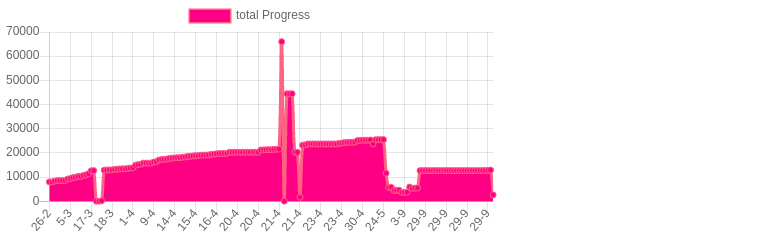
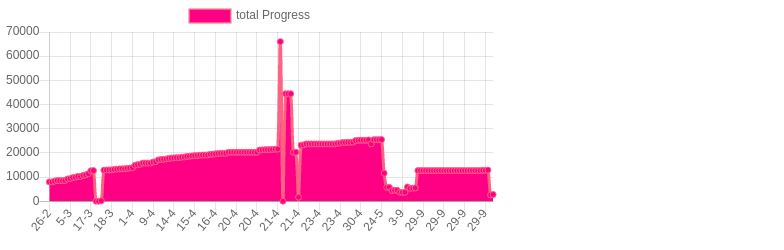
react and ruby code

Changed region(s): [[0.0612, 0.14, 0.6429, 0.924], [0.6122, 0.644, 0.6429, 0.784]]

diff --git a/total.html b/total.html
@@ -9,7 +9,7 @@
         <script src="https://cdn.jsdelivr.net/npm/chart.js@2.8.0"></script>
         <script>
           var ctx = document.getElementById("total").getContext("2d");
-          const goLabelsDates = ["2021-02-27T01:37:43.112Z","2021-02-27T01:38:01.628Z","2021-03-01T13:41:18.753Z","2021-03-01T14:53:41.991Z","2021-03-01T15:08:00.851Z","2021-03-01T15:09:10.635Z","2021-03-01T15:22:55.385Z","2021-03-03T15:31:41.151Z","2021-03-05T14:02:13.446Z","2021-03-10T14:50:13.297Z","2021-03-11T01:54:03.424Z","2021-03-11T15:32:47.647Z","2021-03-11T16:01:51.191Z","2021-03-12T00:36:04.646Z","2021-03-13T00:14:58.179Z","2021-03-16T05:30:04.043Z","2021-03-17T21:17:52.181Z","2021-03-18T03:42:56.998Z","2021-03-18T03:44:29.834Z","2021-03-18T03:45:35.160Z","2021-03-18T03:45:54.668Z","2021-03-18T03:48:46.007Z","2021-03-18T05:10:54.427Z","2021-03-18T05:44:13.724Z","2021-03-18T05:56:11.032Z","2021-03-18T22:11:28.339Z","2021-03-19T11:28:55.383Z","2021-03-22T13:51:43.977Z","2021-03-23T01:52:09.452Z","2021-03-23T15:45:53.765Z","2021-03-24T01:46:02.104Z","2021-03-30T10:56:50.711Z","2021-04-01T15:03:17.764Z","2021-04-01T23:15:02.096Z","2021-04-07T19:21:55.040Z","2021-04-08T15:21:14.479Z","2021-04-09T23:17:58.037Z","2021-04-09T23:32:26.341Z","2021-04-09T23:34:42.049Z","2021-04-09T23:36:18.092Z","2021-04-10T01:45:40.218Z","2021-04-12T15:41:26.676Z","2021-04-14T02:00:41.039Z","2021-04-14T20:02:44.141Z","2021-04-14T21:14:15.821Z","2021-04-14T22:06:37.573Z","2021-04-14T22:42:14.693Z","2021-04-14T23:10:13.243Z","2021-04-14T23:22:54.824Z","2021-04-14T23:49:37.009Z","2021-04-15T02:28:51.974Z","2021-04-15T14:33:50.618Z","2021-04-15T15:09:11.104Z","2021-04-15T20:35:30.580Z","2021-04-16T00:04:33.158Z","2021-04-16T01:36:06.294Z","2021-04-16T01:53:35.992Z","2021-04-16T02:00:15.474Z","2021-04-16T16:08:40.977Z","2021-04-16T16:27:06.953Z","2021-04-16T16:59:30.526Z","2021-04-16T17:00:53.737Z","2021-04-16T23:14:36.283Z","2021-04-17T00:39:16.890Z","2021-04-17T01:11:09.986Z","2021-04-17T01:32:30.011Z","2021-04-17T01:44:22.446Z","2021-04-17T01:44:33.941Z","2021-04-17T02:35:55.774Z","2021-04-19T15:41:31.091Z","2021-04-20T15:32:32.239Z","2021-04-20T15:33:16.014Z","2021-04-20T15:36:11.438Z","2021-04-20T15:38:44.606Z","2021-04-20T15:41:50.350Z","2021-04-20T15:44:34.448Z","2021-04-20T15:46:49.295Z","2021-04-20T15:47:24.048Z","2021-04-20T15:56:22.046Z","2021-04-20T16:00:02.540Z","2021-04-20T16:01:15.511Z","2021-04-20T23:19:23.938Z","2021-04-21T00:40:54.443Z","2021-04-21T00:47:22.662Z","2021-04-21T02:01:09.006Z","2021-04-21T02:19:22.734Z","2021-04-21T15:53:36.038Z","2021-04-21T16:21:45.704Z","2021-04-21T16:26:32.790Z","2021-04-21T16:40:24.916Z","2021-04-21T16:43:40.235Z","2021-04-21T16:43:59.719Z","2021-04-21T16:44:40.304Z","2021-04-21T16:46:13.191Z","2021-04-21T16:48:41.898Z","2021-04-21T16:49:08.753Z","2021-04-21T16:50:32.397Z","2021-04-21T16:51:58.778Z","2021-04-23T00:49:32.826Z","2021-04-23T15:03:06.320Z","2021-04-23T15:04:13.039Z","2021-04-23T15:05:25.923Z","2021-04-23T15:11:04.285Z","2021-04-23T15:11:38.826Z","2021-04-23T15:12:05.618Z","2021-04-23T15:12:32.508Z","2021-04-23T15:13:17.058Z","2021-04-23T17:08:27.046Z","2021-04-23T18:02:30.357Z","2021-04-23T22:58:36.946Z","2021-04-23T23:00:26.027Z","2021-04-23T23:52:58.438Z","2021-04-24T01:12:51.525Z","2021-04-24T02:01:46.612Z","2021-04-26T12:46:47.336Z","2021-04-26T13:13:50.946Z","2021-04-26T13:16:04.473Z","2021-04-27T00:11:42.582Z","2021-04-30T03:26:37.101Z","2021-04-30T04:33:42.472Z","2021-04-30T05:15:42.646Z","2021-04-30T14:31:10.927Z","2021-05-04T01:51:49.907Z","2021-05-21T00:30:21.777Z","2021-05-24T15:07:09.579Z","2021-05-24T15:08:05.658Z","2021-05-24T15:22:20.903Z","2021-05-24T15:33:34.626Z","2021-05-24T15:46:16.101Z","2021-05-24T15:48:12.171Z","2021-05-24T15:53:54.498Z","2021-05-24T15:56:18.488Z","2021-05-28T22:50:32.914Z","2021-06-02T17:58:30.866Z","2021-07-01T05:04:25.826Z","2021-07-01T05:05:33.079Z","2021-09-03T16:56:54.023Z","2021-09-23T00:10:19.737Z","2021-09-23T00:54:30.987Z","2021-09-25T00:13:33.106Z","2021-09-25T00:56:09.874Z","2021-09-29T20:37:10.460Z","2021-09-29T20:39:45.107Z","2021-09-29T20:45:08.406Z","2021-09-29T20:45:42.995Z","2021-09-29T20:51:54.166Z","2021-09-29T21:04:45.487Z","2021-09-29T21:22:49.580Z","2021-09-29T21:23:34.860Z","2021-09-29T21:24:52.804Z","2021-09-29T21:25:12.938Z","2021-09-29T21:31:41.466Z","2021-09-29T21:32:02.856Z","2021-09-29T21:32:15.096Z","2021-09-29T21:37:01.273Z","2021-09-29T21:39:46.109Z","2021-09-29T21:40:23.862Z","2021-09-29T21:41:38.242Z","2021-09-29T21:45:36.053Z","2021-09-29T21:48:31.229Z","2021-09-29T21:49:46.414Z","2021-09-29T21:50:16.628Z","2021-09-29T21:52:23.035Z","2021-09-29T21:58:46.153Z","2021-09-29T21:59:06.075Z","2021-09-29T22:09:34.545Z","2021-09-29T22:24:59.487Z","2021-09-29T22:39:38.616Z","2021-09-29T23:07:40.178Z","2021-10-01T13:21:48.217Z","2021-10-01T14:11:47.682Z",];
+          const goLabelsDates = ["2021-02-27T01:37:43.112Z","2021-02-27T01:38:01.628Z","2021-03-01T13:41:18.753Z","2021-03-01T14:53:41.991Z","2021-03-01T15:08:00.851Z","2021-03-01T15:09:10.635Z","2021-03-01T15:22:55.385Z","2021-03-03T15:31:41.151Z","2021-03-05T14:02:13.446Z","2021-03-10T14:50:13.297Z","2021-03-11T01:54:03.424Z","2021-03-11T15:32:47.647Z","2021-03-11T16:01:51.191Z","2021-03-12T00:36:04.646Z","2021-03-13T00:14:58.179Z","2021-03-16T05:30:04.043Z","2021-03-17T21:17:52.181Z","2021-03-18T03:42:56.998Z","2021-03-18T03:44:29.834Z","2021-03-18T03:45:35.160Z","2021-03-18T03:45:54.668Z","2021-03-18T03:48:46.007Z","2021-03-18T05:10:54.427Z","2021-03-18T05:44:13.724Z","2021-03-18T05:56:11.032Z","2021-03-18T22:11:28.339Z","2021-03-19T11:28:55.383Z","2021-03-22T13:51:43.977Z","2021-03-23T01:52:09.452Z","2021-03-23T15:45:53.765Z","2021-03-24T01:46:02.104Z","2021-03-30T10:56:50.711Z","2021-04-01T15:03:17.764Z","2021-04-01T23:15:02.096Z","2021-04-07T19:21:55.040Z","2021-04-08T15:21:14.479Z","2021-04-09T23:17:58.037Z","2021-04-09T23:32:26.341Z","2021-04-09T23:34:42.049Z","2021-04-09T23:36:18.092Z","2021-04-10T01:45:40.218Z","2021-04-12T15:41:26.676Z","2021-04-14T02:00:41.039Z","2021-04-14T20:02:44.141Z","2021-04-14T21:14:15.821Z","2021-04-14T22:06:37.573Z","2021-04-14T22:42:14.693Z","2021-04-14T23:10:13.243Z","2021-04-14T23:22:54.824Z","2021-04-14T23:49:37.009Z","2021-04-15T02:28:51.974Z","2021-04-15T14:33:50.618Z","2021-04-15T15:09:11.104Z","2021-04-15T20:35:30.580Z","2021-04-16T00:04:33.158Z","2021-04-16T01:36:06.294Z","2021-04-16T01:53:35.992Z","2021-04-16T02:00:15.474Z","2021-04-16T16:08:40.977Z","2021-04-16T16:27:06.953Z","2021-04-16T16:59:30.526Z","2021-04-16T17:00:53.737Z","2021-04-16T23:14:36.283Z","2021-04-17T00:39:16.890Z","2021-04-17T01:11:09.986Z","2021-04-17T01:32:30.011Z","2021-04-17T01:44:22.446Z","2021-04-17T01:44:33.941Z","2021-04-17T02:35:55.774Z","2021-04-19T15:41:31.091Z","2021-04-20T15:32:32.239Z","2021-04-20T15:33:16.014Z","2021-04-20T15:36:11.438Z","2021-04-20T15:38:44.606Z","2021-04-20T15:41:50.350Z","2021-04-20T15:44:34.448Z","2021-04-20T15:46:49.295Z","2021-04-20T15:47:24.048Z","2021-04-20T15:56:22.046Z","2021-04-20T16:00:02.540Z","2021-04-20T16:01:15.511Z","2021-04-20T23:19:23.938Z","2021-04-21T00:40:54.443Z","2021-04-21T00:47:22.662Z","2021-04-21T02:01:09.006Z","2021-04-21T02:19:22.734Z","2021-04-21T15:53:36.038Z","2021-04-21T16:21:45.704Z","2021-04-21T16:26:32.790Z","2021-04-21T16:40:24.916Z","2021-04-21T16:43:40.235Z","2021-04-21T16:43:59.719Z","2021-04-21T16:44:40.304Z","2021-04-21T16:46:13.191Z","2021-04-21T16:48:41.898Z","2021-04-21T16:49:08.753Z","2021-04-21T16:50:32.397Z","2021-04-21T16:51:58.778Z","2021-04-23T00:49:32.826Z","2021-04-23T15:03:06.320Z","2021-04-23T15:04:13.039Z","2021-04-23T15:05:25.923Z","2021-04-23T15:11:04.285Z","2021-04-23T15:11:38.826Z","2021-04-23T15:12:05.618Z","2021-04-23T15:12:32.508Z","2021-04-23T15:13:17.058Z","2021-04-23T17:08:27.046Z","2021-04-23T18:02:30.357Z","2021-04-23T22:58:36.946Z","2021-04-23T23:00:26.027Z","2021-04-23T23:52:58.438Z","2021-04-24T01:12:51.525Z","2021-04-24T02:01:46.612Z","2021-04-26T12:46:47.336Z","2021-04-26T13:13:50.946Z","2021-04-26T13:16:04.473Z","2021-04-27T00:11:42.582Z","2021-04-30T03:26:37.101Z","2021-04-30T04:33:42.472Z","2021-04-30T05:15:42.646Z","2021-04-30T14:31:10.927Z","2021-05-04T01:51:49.907Z","2021-05-21T00:30:21.777Z","2021-05-24T15:07:09.579Z","2021-05-24T15:08:05.658Z","2021-05-24T15:22:20.903Z","2021-05-24T15:33:34.626Z","2021-05-24T15:46:16.101Z","2021-05-24T15:48:12.171Z","2021-05-24T15:53:54.498Z","2021-05-24T15:56:18.488Z","2021-05-28T22:50:32.914Z","2021-06-02T17:58:30.866Z","2021-07-01T05:04:25.826Z","2021-07-01T05:05:33.079Z","2021-09-03T16:56:54.023Z","2021-09-23T00:10:19.737Z","2021-09-23T00:54:30.987Z","2021-09-25T00:13:33.106Z","2021-09-25T00:56:09.874Z","2021-09-29T20:37:10.460Z","2021-09-29T20:39:45.107Z","2021-09-29T20:45:08.406Z","2021-09-29T20:45:42.995Z","2021-09-29T20:51:54.166Z","2021-09-29T21:04:45.487Z","2021-09-29T21:22:49.580Z","2021-09-29T21:23:34.860Z","2021-09-29T21:24:52.804Z","2021-09-29T21:25:12.938Z","2021-09-29T21:31:41.466Z","2021-09-29T21:32:02.856Z","2021-09-29T21:32:15.096Z","2021-09-29T21:37:01.273Z","2021-09-29T21:39:46.109Z","2021-09-29T21:40:23.862Z","2021-09-29T21:41:38.242Z","2021-09-29T21:45:36.053Z","2021-09-29T21:48:31.229Z","2021-09-29T21:49:46.414Z","2021-09-29T21:50:16.628Z","2021-09-29T21:52:23.035Z","2021-09-29T21:58:46.153Z","2021-09-29T21:59:06.075Z","2021-09-29T22:09:34.545Z","2021-09-29T22:24:59.487Z","2021-09-29T22:39:38.616Z","2021-09-29T23:07:40.178Z","2021-10-01T13:21:48.217Z","2021-10-01T14:11:47.682Z","2021-10-05T00:24:42.303Z",];
           var chart = new Chart(ctx, {
             type: 'line',
             data: {
@@ -18,7 +18,7 @@
                 label: 'total Progress',
                 backgroundColor: 'rgb(255, 0, 132)',
                 borderColor: 'rgb(255, 99, 132)',
-                data: [7975,7975,8307,8526,8526,8527,8573,9171,9358,9751,9908,10232,10231,10643,10911,11353,12576,12666,0,0,169,12835,12906,12953,12953,13141,13254,13354,13406,13417,13568,13708,13845,14886,15140,15267,15766,15777,15777,15777,16211,16345,17062,17247,17324,17464,17697,17849,17916,18002,18002,18202,18292,18515,18590,18744,18837,18876,19030,19086,19114,19143,19378,19465,19607,19714,19782,19782,19791,20220,20257,20257,20257,20257,20257,20257,20257,20257,20257,20257,20257,21179,21238,21279,21319,21319,21430,21506,21543,65995,0,44452,44452,44452,20233,20233,1629,23172,23326,23693,23693,23693,23693,23693,23693,23693,23693,23693,23693,23693,23693,23905,24023,24262,24275,24376,24376,24452,25078,25182,25238,25232,25233,25334,23696,25427,25453,25466,25491,11565,5707,5707,4421,4535,4535,3678,3678,3678,5861,5318,5422,5473,12667,12667,12667,12667,12667,12667,12667,12667,12667,12667,12667,12667,12667,12667,12667,12667,12667,12667,12658,12658,12657,12657,12657,12657,12683,12736,12779,12888,2619,]
+                data: [7975,7975,8307,8526,8526,8527,8573,9171,9358,9751,9908,10232,10231,10643,10911,11353,12576,12666,0,0,169,12835,12906,12953,12953,13141,13254,13354,13406,13417,13568,13708,13845,14886,15140,15267,15766,15777,15777,15777,16211,16345,17062,17247,17324,17464,17697,17849,17916,18002,18002,18202,18292,18515,18590,18744,18837,18876,19030,19086,19114,19143,19378,19465,19607,19714,19782,19782,19791,20220,20257,20257,20257,20257,20257,20257,20257,20257,20257,20257,20257,21179,21238,21279,21319,21319,21430,21506,21543,65995,0,44452,44452,44452,20233,20233,1629,23172,23326,23693,23693,23693,23693,23693,23693,23693,23693,23693,23693,23693,23693,23905,24023,24262,24275,24376,24376,24452,25078,25182,25238,25232,25233,25334,23696,25427,25453,25466,25491,11565,5707,5707,4421,4535,4535,3678,3678,3678,5861,5318,5422,5473,12667,12667,12667,12667,12667,12667,12667,12667,12667,12667,12667,12667,12667,12667,12667,12667,12667,12667,12658,12658,12657,12657,12657,12657,12683,12736,12779,12888,2619,2775,]
               }]
             },
           });

diff --git a/ruby.html b/ruby.html
@@ -4,12 +4,12 @@
       <head></head>
       <body>
         <div style="width: 500px;">
-          <canvas id="ruby" width="500" height="300"></canvas>
+          <canvas id="ruby" width="300" height="150"></canvas>
         </div>
         <script src="https://cdn.jsdelivr.net/npm/chart.js@2.8.0"></script>
         <script>
           var ctx = document.getElementById("ruby").getContext("2d");
-          const goLabelsDates = ["2021-02-27T01:37:43.111Z","2021-02-27T01:38:01.627Z","2021-03-03T15:31:41.151Z","2021-03-12T00:36:04.646Z","2021-03-13T00:14:58.178Z","2021-03-16T05:30:04.043Z","2021-03-18T05:44:13.724Z","2021-03-18T05:56:11.032Z","2021-03-18T22:11:28.339Z","2021-03-19T11:28:55.382Z","2021-03-22T13:51:43.976Z","2021-03-23T01:52:09.451Z","2021-03-23T15:45:53.764Z","2021-03-24T01:46:02.103Z","2021-03-30T10:56:50.710Z","2021-04-01T15:03:17.763Z","2021-04-01T23:15:02.095Z","2021-04-07T19:21:55.039Z","2021-04-08T15:21:14.478Z","2021-04-09T23:17:58.036Z","2021-04-09T23:32:26.340Z","2021-04-09T23:34:42.048Z","2021-04-09T23:36:18.092Z","2021-04-10T01:45:40.217Z","2021-04-12T15:41:26.675Z","2021-04-14T02:00:41.039Z","2021-04-14T20:02:44.140Z","2021-04-14T21:14:15.820Z","2021-04-14T22:06:37.573Z","2021-04-14T22:42:14.693Z","2021-04-14T23:10:13.243Z","2021-04-14T23:22:54.824Z","2021-04-14T23:49:37.009Z","2021-04-15T02:28:51.974Z","2021-04-15T14:33:50.618Z","2021-04-15T15:09:11.103Z","2021-04-15T20:35:30.579Z","2021-04-16T00:04:33.157Z","2021-04-16T01:36:06.293Z","2021-04-16T01:53:35.991Z","2021-04-16T02:00:15.473Z","2021-04-16T16:08:40.976Z","2021-04-16T16:27:06.952Z","2021-04-16T16:59:30.525Z","2021-04-16T17:00:53.733Z","2021-04-16T23:14:36.282Z","2021-04-17T00:39:16.888Z","2021-04-17T01:11:09.985Z","2021-04-17T01:32:30.008Z","2021-04-17T01:44:22.445Z","2021-04-17T01:44:33.940Z","2021-04-17T02:35:55.773Z","2021-04-19T15:41:31.090Z","2021-04-20T15:32:32.238Z","2021-04-20T15:33:16.013Z","2021-04-20T15:36:11.438Z","2021-04-20T15:38:44.605Z","2021-04-20T15:41:50.349Z","2021-04-20T15:44:34.447Z","2021-04-20T15:46:49.294Z","2021-04-20T15:47:24.047Z","2021-04-20T15:56:22.045Z","2021-04-20T16:00:02.539Z","2021-04-20T16:01:15.511Z","2021-04-20T23:19:23.937Z","2021-04-21T00:40:54.442Z","2021-04-21T00:47:22.661Z","2021-04-21T02:01:09.005Z","2021-04-21T02:19:22.734Z","2021-04-21T15:53:36.037Z","2021-04-21T16:21:45.703Z","2021-04-21T16:26:32.789Z","2021-04-21T16:40:24.916Z","2021-04-21T16:51:58.777Z","2021-04-23T00:49:32.825Z","2021-04-23T15:03:06.327Z","2021-04-23T15:04:13.044Z","2021-04-23T15:05:25.923Z","2021-04-23T15:13:17.062Z","2021-04-23T17:08:27.045Z","2021-04-23T18:02:30.355Z","2021-04-23T22:58:36.945Z","2021-04-23T23:00:26.027Z","2021-04-23T23:52:58.438Z","2021-04-24T01:12:51.524Z","2021-04-24T02:01:46.611Z","2021-04-26T12:46:47.335Z","2021-04-26T13:13:50.945Z","2021-04-26T13:16:04.472Z","2021-04-27T00:11:42.580Z","2021-04-30T03:26:37.099Z","2021-04-30T04:33:42.472Z","2021-04-30T05:15:42.646Z","2021-04-30T14:31:10.926Z","2021-05-04T01:51:49.906Z","2021-05-21T00:30:21.773Z","2021-05-24T15:07:09.574Z","2021-05-24T15:08:05.657Z","2021-05-24T15:22:20.902Z","2021-05-24T15:33:34.625Z","2021-05-24T15:46:16.101Z","2021-05-24T15:48:12.170Z",];
+          const goLabelsDates = ["2021-02-27T01:37:43.111Z","2021-02-27T01:38:01.627Z","2021-03-03T15:31:41.151Z","2021-03-12T00:36:04.646Z","2021-03-13T00:14:58.178Z","2021-03-16T05:30:04.043Z","2021-03-18T05:44:13.724Z","2021-03-18T05:56:11.032Z","2021-03-18T22:11:28.339Z","2021-03-19T11:28:55.382Z","2021-03-22T13:51:43.976Z","2021-03-23T01:52:09.451Z","2021-03-23T15:45:53.764Z","2021-03-24T01:46:02.103Z","2021-03-30T10:56:50.710Z","2021-04-01T15:03:17.763Z","2021-04-01T23:15:02.095Z","2021-04-07T19:21:55.039Z","2021-04-08T15:21:14.478Z","2021-04-09T23:17:58.036Z","2021-04-09T23:32:26.340Z","2021-04-09T23:34:42.048Z","2021-04-09T23:36:18.092Z","2021-04-10T01:45:40.217Z","2021-04-12T15:41:26.675Z","2021-04-14T02:00:41.039Z","2021-04-14T20:02:44.140Z","2021-04-14T21:14:15.820Z","2021-04-14T22:06:37.573Z","2021-04-14T22:42:14.693Z","2021-04-14T23:10:13.243Z","2021-04-14T23:22:54.824Z","2021-04-14T23:49:37.009Z","2021-04-15T02:28:51.974Z","2021-04-15T14:33:50.618Z","2021-04-15T15:09:11.103Z","2021-04-15T20:35:30.579Z","2021-04-16T00:04:33.157Z","2021-04-16T01:36:06.293Z","2021-04-16T01:53:35.991Z","2021-04-16T02:00:15.473Z","2021-04-16T16:08:40.976Z","2021-04-16T16:27:06.952Z","2021-04-16T16:59:30.525Z","2021-04-16T17:00:53.733Z","2021-04-16T23:14:36.282Z","2021-04-17T00:39:16.888Z","2021-04-17T01:11:09.985Z","2021-04-17T01:32:30.008Z","2021-04-17T01:44:22.445Z","2021-04-17T01:44:33.940Z","2021-04-17T02:35:55.773Z","2021-04-19T15:41:31.090Z","2021-04-20T15:32:32.238Z","2021-04-20T15:33:16.013Z","2021-04-20T15:36:11.438Z","2021-04-20T15:38:44.605Z","2021-04-20T15:41:50.349Z","2021-04-20T15:44:34.447Z","2021-04-20T15:46:49.294Z","2021-04-20T15:47:24.047Z","2021-04-20T15:56:22.045Z","2021-04-20T16:00:02.539Z","2021-04-20T16:01:15.511Z","2021-04-20T23:19:23.937Z","2021-04-21T00:40:54.442Z","2021-04-21T00:47:22.661Z","2021-04-21T02:01:09.005Z","2021-04-21T02:19:22.734Z","2021-04-21T15:53:36.037Z","2021-04-21T16:21:45.703Z","2021-04-21T16:26:32.789Z","2021-04-21T16:40:24.916Z","2021-04-21T16:51:58.777Z","2021-04-23T00:49:32.825Z","2021-04-23T15:03:06.327Z","2021-04-23T15:04:13.044Z","2021-04-23T15:05:25.923Z","2021-04-23T15:13:17.062Z","2021-04-23T17:08:27.045Z","2021-04-23T18:02:30.355Z","2021-04-23T22:58:36.945Z","2021-04-23T23:00:26.027Z","2021-04-23T23:52:58.438Z","2021-04-24T01:12:51.524Z","2021-04-24T02:01:46.611Z","2021-04-26T12:46:47.335Z","2021-04-26T13:13:50.945Z","2021-04-26T13:16:04.472Z","2021-04-27T00:11:42.580Z","2021-04-30T03:26:37.099Z","2021-04-30T04:33:42.472Z","2021-04-30T05:15:42.646Z","2021-04-30T14:31:10.926Z","2021-05-04T01:51:49.906Z","2021-05-21T00:30:21.773Z","2021-05-24T15:07:09.574Z","2021-05-24T15:08:05.657Z","2021-05-24T15:22:20.902Z","2021-05-24T15:33:34.625Z","2021-05-24T15:46:16.101Z","2021-05-24T15:48:12.170Z","2021-10-05T00:24:42.299Z",];
           var chart = new Chart(ctx, {
             type: 'line',
             data: {
@@ -18,7 +18,7 @@
                 label: 'ruby Progress',
                 backgroundColor: 'rgb(255, 0, 132)',
                 borderColor: 'rgb(255, 99, 132)',
-                data: [810,810,1056,1469,1737,1875,1908,1908,1908,1908,1938,1960,1960,1960,2005,2083,2083,2083,2083,2157,2168,2168,2168,2168,2168,2168,2168,2168,2168,2168,2168,2168,2168,2168,2168,2168,2168,2168,2168,2168,2168,2168,2168,2168,2168,2168,2168,2168,2168,2168,2168,2168,2168,2168,2168,2168,2168,2168,2168,2168,2168,2168,2168,2168,2168,2168,2168,2168,2168,2168,2168,2168,2168,2168,2168,2168,2168,2168,2168,2168,2168,2168,2168,2168,2168,2168,2168,2168,2168,2168,2168,2168,2168,2168,2168,2168,2168,2168,2168,2168,2168,2168,]
+                data: [810,810,1056,1469,1737,1875,1908,1908,1908,1908,1938,1960,1960,1960,2005,2083,2083,2083,2083,2157,2168,2168,2168,2168,2168,2168,2168,2168,2168,2168,2168,2168,2168,2168,2168,2168,2168,2168,2168,2168,2168,2168,2168,2168,2168,2168,2168,2168,2168,2168,2168,2168,2168,2168,2168,2168,2168,2168,2168,2168,2168,2168,2168,2168,2168,2168,2168,2168,2168,2168,2168,2168,2168,2168,2168,2168,2168,2168,2168,2168,2168,2168,2168,2168,2168,2168,2168,2168,2168,2168,2168,2168,2168,2168,2168,2168,2168,2168,2168,2168,2168,2168,2578,]
               }]
             },
           });

diff --git a/react.html b/react.html
@@ -9,7 +9,7 @@
         <script src="https://cdn.jsdelivr.net/npm/chart.js@2.8.0"></script>
         <script>
           var ctx = document.getElementById("react").getContext("2d");
-          const goLabelsDates = ["2021-05-24T15:22:20.900Z","2021-05-24T15:33:34.624Z","2021-05-24T15:46:16.099Z","2021-05-24T15:48:12.170Z","2021-05-24T15:53:54.498Z","2021-05-24T15:56:18.484Z","2021-05-28T22:50:32.912Z","2021-06-02T17:58:30.865Z","2021-07-01T05:04:25.823Z","2021-07-01T05:05:33.078Z","2021-09-03T16:56:54.022Z","2021-09-23T00:10:19.736Z","2021-09-23T00:54:30.986Z","2021-09-25T00:13:33.104Z","2021-09-25T00:56:09.872Z","2021-09-29T20:37:10.455Z","2021-09-29T20:39:45.106Z","2021-09-29T20:45:08.405Z","2021-09-29T20:45:42.992Z","2021-09-29T20:51:54.164Z","2021-09-29T21:04:45.485Z","2021-09-29T21:22:49.578Z","2021-09-29T21:23:34.858Z","2021-09-29T21:24:52.803Z","2021-09-29T21:25:12.936Z","2021-09-29T21:31:41.463Z","2021-09-29T21:32:02.853Z","2021-09-29T21:32:15.094Z","2021-09-29T21:36:24.777Z","2021-09-29T21:37:01.271Z","2021-09-29T21:39:46.106Z","2021-09-29T21:40:23.860Z","2021-09-29T21:41:38.229Z","2021-09-29T21:45:36.048Z","2021-09-29T21:48:31.220Z","2021-09-29T21:49:46.410Z","2021-09-29T21:50:16.623Z","2021-09-29T21:52:23.031Z","2021-09-29T21:58:46.149Z","2021-09-29T21:59:06.072Z","2021-09-29T22:09:34.541Z","2021-09-29T22:24:59.483Z","2021-09-29T22:39:38.613Z","2021-09-29T23:07:40.174Z","2021-10-01T13:21:48.213Z","2021-10-01T14:11:47.678Z",];
+          const goLabelsDates = ["2021-05-24T15:22:20.900Z","2021-05-24T15:33:34.624Z","2021-05-24T15:46:16.099Z","2021-05-24T15:48:12.170Z","2021-05-24T15:53:54.498Z","2021-05-24T15:56:18.484Z","2021-05-28T22:50:32.912Z","2021-06-02T17:58:30.865Z","2021-07-01T05:04:25.823Z","2021-07-01T05:05:33.078Z","2021-09-03T16:56:54.022Z","2021-09-23T00:10:19.736Z","2021-09-23T00:54:30.986Z","2021-09-25T00:13:33.104Z","2021-09-25T00:56:09.872Z","2021-09-29T20:37:10.455Z","2021-09-29T20:39:45.106Z","2021-09-29T20:45:08.405Z","2021-09-29T20:45:42.992Z","2021-09-29T20:51:54.164Z","2021-09-29T21:04:45.485Z","2021-09-29T21:22:49.578Z","2021-09-29T21:23:34.858Z","2021-09-29T21:24:52.803Z","2021-09-29T21:25:12.936Z","2021-09-29T21:31:41.463Z","2021-09-29T21:32:02.853Z","2021-09-29T21:32:15.094Z","2021-09-29T21:36:24.777Z","2021-09-29T21:37:01.271Z","2021-09-29T21:39:46.106Z","2021-09-29T21:40:23.860Z","2021-09-29T21:41:38.229Z","2021-09-29T21:45:36.048Z","2021-09-29T21:48:31.220Z","2021-09-29T21:49:46.410Z","2021-09-29T21:50:16.623Z","2021-09-29T21:52:23.031Z","2021-09-29T21:58:46.149Z","2021-09-29T21:59:06.072Z","2021-09-29T22:09:34.541Z","2021-09-29T22:24:59.483Z","2021-09-29T22:39:38.613Z","2021-09-29T23:07:40.174Z","2021-10-01T13:21:48.213Z","2021-10-01T14:11:47.678Z","2021-10-05T00:24:42.298Z",];
           var chart = new Chart(ctx, {
             type: 'line',
             data: {
@@ -18,7 +18,7 @@
                 label: 'react Progress',
                 backgroundColor: 'rgb(255, 0, 132)',
                 borderColor: 'rgb(255, 99, 132)',
-                data: [26,26,26,26,26,26,26,26,26,26,26,26,26,26,26,26,26,26,26,26,26,26,26,26,26,26,26,26,26,26,26,26,26,26,26,26,26,26,26,26,26,26,26,26,26,197,]
+                data: [26,26,26,26,26,26,26,26,26,26,26,26,26,26,26,26,26,26,26,26,26,26,26,26,26,26,26,26,26,26,26,26,26,26,26,26,26,26,26,26,26,26,26,26,26,197,197,]
               }]
             },
           });

diff --git a/config.js b/config.js
@@ -8,15 +8,15 @@ const configLn = [
     src: ['../../react-native/reactnDoctor1/components', '../../react-native/reactnDoctor1/screens', '../../react-native/reactnDoctor1/navigation', '../../react-native/reactnDoctor1/hooks'],
     goal: 2000
   }, */
-/*   {
-    ln: 'denti-code',
-    title: "JavaScript Denti",
-    subjects: [
-      "react,", "hooks"
-    ],
-    src: ['../../node/denti-code/src', '../../node/denti-code-server'],
-    goal: 2000
-  }, */
+  /*   {
+      ln: 'denti-code',
+      title: "JavaScript Denti",
+      subjects: [
+        "react,", "hooks"
+      ],
+      src: ['../../node/denti-code/src', '../../node/denti-code-server'],
+      goal: 2000
+    }, */
   /* {
     ln: 'shopping-cart',
     title: "React Shopping Cart",
@@ -42,20 +42,20 @@ const configLn = [
     ],
     goal: 1000
   },
- /*  {
-    ln: 'ts',
-    title: "TS",
-    subjects: [
-      "angular, microORM, typeORM, node js."
-    ],
-    goal: 500
-  }, */
-/*   {
-    ln: 'java',
-    title: "java",
-    subjects: ["reflexion", "strings", "generics", "documentation"],
-    goal: 2000
-  }, */
+  /*  {
+     ln: 'ts',
+     title: "TS",
+     subjects: [
+       "angular, microORM, typeORM, node js."
+     ],
+     goal: 500
+   }, */
+  /*   {
+      ln: 'java',
+      title: "java",
+      subjects: ["reflexion", "strings", "generics", "documentation"],
+      goal: 2000
+    }, */
   /* {
     ln: 'scala',
     title: "scala",
@@ -74,36 +74,36 @@ const configLn = [
     subjects: [],
     goal: 500
   }, */
-   /* {
-    ln: 'go',
-    title: "go",
-    subjects: ["structs", "loops"],
-    goal: 3000
-  }, */
-  {
+  /* {
+   ln: 'go',
+   title: "go",
+   subjects: ["structs", "loops"],
+   goal: 3000
+ }, */
+  /* {
     ln: 'python',
     title: "python",
     subjects: ["collections", ""],
     goal: 2000
-  },
- /*  {
+  }, */
+  {
     ln: 'ruby',
     title: "ruby",
     subjects: ["migrations", "ruby on rails", "presenters", "models"],
     goal: 2000
-  }, */
+  },
   /* {
     ln: 'sql',
     title: "sql",
     subjects: [],
     goal: 500
   }, */
- /*  {
-    ln: 'html',
-    title: "html",
-    subjects: [],
-    goal: 500
-  }, */
+  /*  {
+     ln: 'html',
+     title: "html",
+     subjects: [],
+     goal: 500
+   }, */
   /* {
     ln: 'css',
     title: "css",

diff --git a/Readme.md b/Readme.md
@@ -1,12 +1,12 @@
 # All count
 |Language|Goal|Lines%|%|%|%|Subjects|
 |----------|-------|-------|--------|--------|--------|--------|
-|python|10000|2422|24|![python](https://raw.githubusercontent.com/kapit4n/l-10000-dev/master/python.png)|collections, |algorithms, django pdf, django tips, unit tests, yield|
+|ruby|10000|2578|26|![ruby](https://raw.githubusercontent.com/kapit4n/l-10000-dev/master/ruby.png)|migrations, ruby on rails, presenters, models|ruby rails controllers, ruby rails models|
 |react|1000|197|20|![react](https://raw.githubusercontent.com/kapit4n/l-10000-dev/master/react.png)|Testing, builds|react hooks tips, components|
-|TOTAL|2619|13.095%|
+|TOTAL|2775|13.875%|
 10/02(0)
 
-10/03(2619)
+10/03(2775)
 
 
   # run it
@@ -29,4 +29,4 @@
   * Angular, React, Vue
   * Spring, Play
   * Scala, Java
-  , 2021-10-01T14:11:47.682Z
+  , 2021-10-05T00:24:42.304Z
